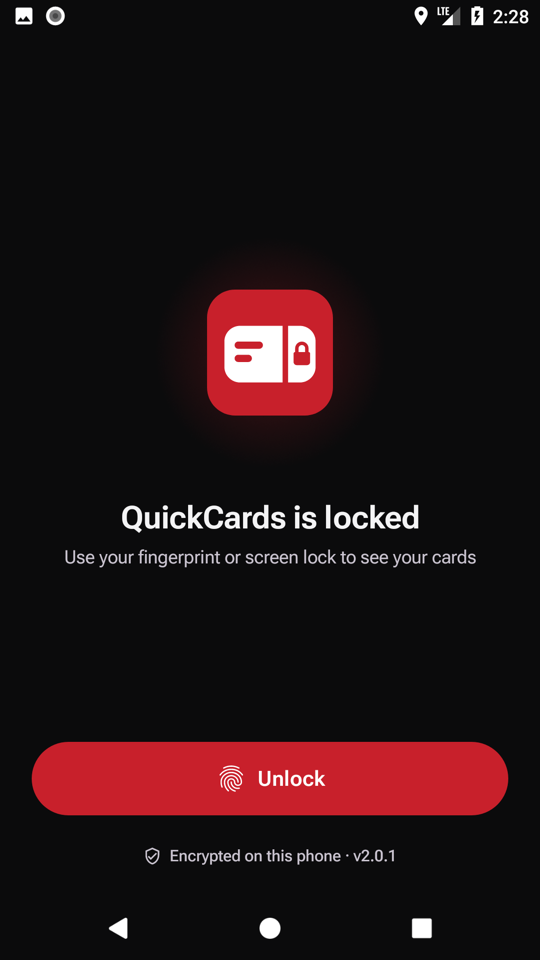
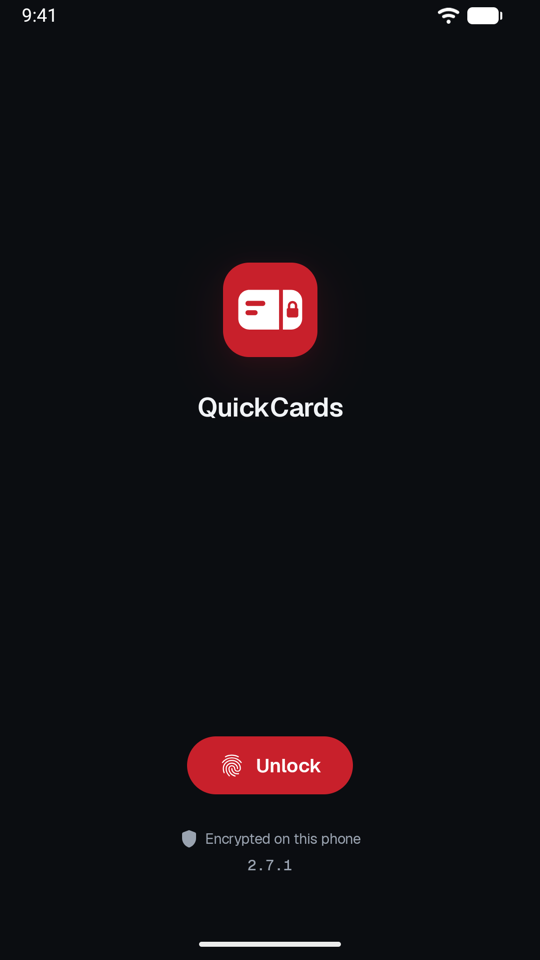
docs: refresh README, Play listing and reference screenshots for Daylight

diff --git a/README.md b/README.md
@@ -8,11 +8,11 @@ PIN. The app has no internet or camera permission; data leaves the phone only as
 encrypted backup that you export yourself and open with its backup password.
 
 <p align="center">
-  <img src="docs/screenshots/cards-dark.png" alt="Card list: pinned HDFC Visa card with official Visa mark, tags and a Bill due in 2 days strip with Mark paid" width="240">
+  <img src="docs/screenshots/cards-dark.png" alt="Card list: pinned HDFC Bank Visa card with a Travel tag and a Due in 2 days strip with Mark paid, above an American Express card" width="240">
   &nbsp;
-  <img src="docs/screenshots/autofill-dark.png" alt="Checkout form offering three QuickCards cards as autofill suggestions" width="240">
+  <img src="docs/screenshots/autofill-dark.png" alt="Card form offering QuickCards autofill suggestions: search all cards, HDFC Bank Visa and American Express" width="240">
   &nbsp;
-  <img src="docs/screenshots/lock-dark.png" alt="Lock screen with the Stub Lock mark and Unlock button" width="240">
+  <img src="docs/screenshots/lock-dark.png" alt="Lock screen with the QuickCards mark, Unlock button and Encrypted on this phone" width="240">
 </p>
 
 <p align="center"><sub>Demo data with public test card numbers. Release builds block screenshots.</sub></p>
@@ -21,18 +21,18 @@ encrypted backup that you export yourself and open with its backup password.
 
 <table>
   <tr>
-    <td align="center"><img src="docs/screenshots/networks-dark.png" alt="Card networks list with official Visa, Mastercard, Amex, RuPay, Diners, Discover, JCB, Maestro and UnionPay marks" width="240"><br><sub>Official network marks</sub></td>
+    <td align="center"><img src="docs/screenshots/networks-dark.png" alt="Card networks list with official Visa, Mastercard, Amex, RuPay, Diners, Discover, JCB, Maestro, UnionPay and Mir marks" width="240"><br><sub>Official network marks</sub></td>
     <td align="center"><img src="docs/screenshots/edit-dark.png" alt="Edit card form under a live card preview with the Visa mark" width="240"><br><sub>Edit with a live preview</sub></td>
-    <td align="center"><img src="docs/screenshots/share-dark.png" alt="Share this card dialog with an Include CVV switch" width="240"><br><sub>Share, CVV only if you choose</sub></td>
+    <td align="center"><img src="docs/screenshots/share-dark.png" alt="Share card dialog with an Include CVV switch" width="240"><br><sub>Share, CVV only if you choose</sub></td>
   </tr>
   <tr>
-    <td align="center"><img src="docs/screenshots/notes-dark.png" alt="American Express card with a tag and a note" width="240"><br><sub>Tags and notes on the card</sub></td>
+    <td align="center"><img src="docs/screenshots/notes-dark.png" alt="American Express card with a two-line note and a Travel tag" width="240"><br><sub>Tags and notes on the card</sub></td>
     <td align="center"><img src="docs/screenshots/expires-soon-dark.png" alt="ICICI Mastercard labelled Expires soon above a RuPay card" width="240"><br><sub>Expires soon</sub></td>
     <td align="center"><img src="docs/screenshots/expired-dark.png" alt="Expired JCB card in graphite" width="240"><br><sub>Expired cards turn graphite</sub></td>
   </tr>
   <tr>
-    <td align="center"><img src="docs/screenshots/settings-reminders-dark.png" alt="Settings with Reminders and Copying sections" width="240"><br><sub>Expiry and payment reminders</sub></td>
-    <td align="center"><img src="docs/screenshots/card-colours-dark.png" alt="Card colour swatches and custom colour picker" width="240"><br><sub>15 colours plus a custom picker</sub></td>
+    <td align="center"><img src="docs/screenshots/settings-reminders-dark.png" alt="Settings with Copying, Security and Reminders sections" width="240"><br><sub>Expiry and payment reminders</sub></td>
+    <td align="center"><img src="docs/screenshots/card-colours-dark.png" alt="Card colour sheet with a live preview, Bank colour and the swatch grid" width="240"><br><sub>Jewel colours plus a custom picker</sub></td>
     <td align="center"><img src="docs/screenshots/filter-dark.png" alt="Filter sheet by holder and bank" width="240"><br><sub>Filter by holder, bank, network, tag</sub></td>
   </tr>
   <tr>

diff --git a/docs/play-listing/README.md b/docs/play-listing/README.md
@@ -1,0 +1,17 @@
+# Play Store listing screenshots
+
+Phone screenshots for the Google Play listing: 1080×1920 PNG (9:16), captured from the
+Daylight debug build (2.7.1) with a clean status bar. All data is made up: holders Aarav and
+Diya Mehta, public test card numbers. No captions are baked in; paste the suggested caption
+into Play Console if the listing uses them. Upload in this order.
+
+| File | Shows | Suggested caption |
+|---|---|---|
+| 01-home-light.png | Home with jewel card tiles, holder chips and a payment-due strip | Every card, one tap from copy |
+| 02-copy-notification.png | After Copy: silent notification with the card's expiry and CVV | Copy the number, see expiry and CVV at a glance |
+| 03-card-details.png | Card details: hero card art with chip and copy rows | Every detail, ready to copy |
+| 04-add-card-preview.png | Add card with the live card preview | See the card as you type it |
+| 05-colour-picker.png | Colour sheet: preview, Bank colour and swatches | Make each card yours |
+| 06-lock-screen.png | App lock screen: "Encrypted on this phone" | Locked with your fingerprint or PIN |
+| 07-settings-privacy.png | Settings: clipboard clearing, notification, autofill, app lock | Clipboard clears itself. You stay in control |
+| 08-home-dark.png | Home in the dark theme | Looks just as good in the dark |

diff --git a/docs/PLAY_RELEASE.md b/docs/PLAY_RELEASE.md
@@ -75,7 +75,7 @@ The app has no server, no account, no analytics/ads SDK and no `INTERNET` permis
 - Icon: `docs/brand/stub-lock/play-store-512.png` (512×512).
 - Feature graphic: `docs/brand/stub-lock/feature-1024x500.png`.
 - Screenshots: at least 2, 9:16, no real card data; `docs/screenshots/*` are 540×960 and use
-  test numbers. Prefer exporting 1080×1920 for quality.
+  test numbers. The 1080×1920 upload set is in `docs/play-listing/`.
 - Short and full description: say "offline card organizer", not "bank", "wallet" or
   "payment app"; do not imply bank/network affiliation. Network marks are trademarks and are
   identified as such in `THIRD_PARTY_NOTICES.md`.

diff --git a/prototype/reference/README.md b/prototype/reference/README.md
@@ -37,3 +37,5 @@ Captured from the Daylight debug build (2.7.0) on a 1080×2400 phone emulator at
 | 31-archived.png | Archived list with the archive reason chip |
 | 32-holder-sheet.png | Holder picker sheet with monograms and New holder |
 | 33-tablet-list-detail.png | Tablet (1280×800 dp): navigation rail, card list and details side by side |
+| 34-add-card-rules-notice.png | Add card when a built-in rule was changed (Visa set to a 4-digit CVV): "Visa: custom 4-digit CVV" with Reset |
+| 35-maestro-no-cvv.png | Card details for a Maestro card saved without a CVV: CVV row reads "None", no copy button |
